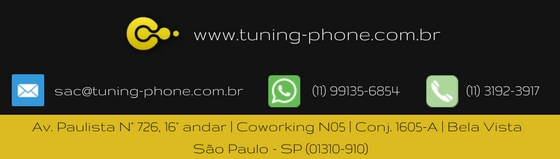
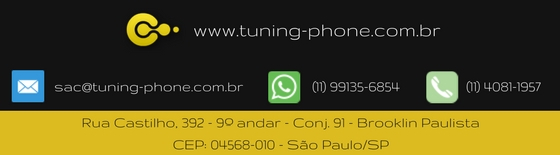
novas referências de endereço

diff --git a/htm/rodape.htm b/htm/rodape.htm
@@ -5,7 +5,7 @@
     <div class="container-fluid text-center">
       <div class="hidden-xs qrcode">
         <h4>Escaneie nosso vCard</h4>
-        <img width="150px" height="150px" src="https://www.rumo.com.br/lojas/000<IDLojaNum>/images/qr_code.png" alt="QRCode"/>
+        <img width="300px" height="300px" src="https://www.rumo.com.br/lojas/000<IDLojaNum>/images/qr_code.png" alt="QRCode"/>
       </div>
     </div>
     <div class="container-fluid">
@@ -13,7 +13,7 @@
         <p><a href="https://api.whatsapp.com/send?phone=5511991356854"><img width="32px" height="32px" src="https://www.rumo.com.br/lojas/000<IDLojaNum>/images/whatsapp.png" alt="WhatsApp"> (11) 99135-6854</a></p>
       </div>
       <div class="col-sm-4 text-center">
-        <p><a href="tel:1131923917"><img width="32px" height="32px" src="https://www.rumo.com.br/lojas/000<IDLojaNum>/images/phone.png" alt="Telefone"> (11) 3192-3917</a></p>
+        <p><a href="tel:1140811957"><img width="32px" height="32px" src="https://www.rumo.com.br/lojas/000<IDLojaNum>/images/phone.png" alt="Telefone"> (11) 4081-1957</a></p>
       </div>
       <div class="col-sm-4 text-center">
         <p><img width="32px" height="32px" src="https://www.rumo.com.br/lojas/000<IDLojaNum>/images/mail.png" alt="E-mail"><a href="mailto:sac@tuning-phone.com.br"> sac@tuning-phone.com.br</a></p>
@@ -21,7 +21,7 @@
     </div>
     <div class="container-fluid">
       <div class="col-sm-12 text-center">
-        <p><img width="32px" height="32px" src="https://www.rumo.com.br/lojas/000<IDLojaNum>/images/maps.png" alt="Mapa"> Avenida Paulista N&deg; 726, 16&deg; andar | Coworking N05 | Conjunto 1605-A | Bela Vista | S&atilde;o Paulo - SP (01310-910)</p>
+        <p><img width="32px" height="32px" src="https://www.rumo.com.br/lojas/000<IDLojaNum>/images/maps.png" alt="Mapa">Rua Castilho, 392 - 9&deg; Andar - Conj. 91 - Brooklin Paulista - CEP: 04568-010 - S&atilde;o Paulo/SP.</p>
       </div>
     </div>
   </div>

diff --git a/htm/FbhAjuda.htm b/htm/FbhAjuda.htm
@@ -10,7 +10,7 @@
           <br>
           Email: sac@tuning-phone.com.br<br>
           WhatsApp: (11) 99135-6854<br>
-          Telefone: (11) 3192-3917
+          Telefone: (11) 4081-1957
           </p>
       </td>
     </tr>
